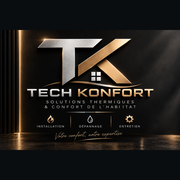
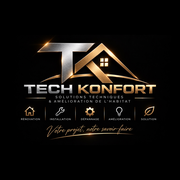
Add files via upload

diff --git a/app.js b/app.js
@@ -2,7 +2,7 @@ const $=id=>document.getElementById(id);const fmt=n=>(Number(n)||0).toLocaleStri
 let clients=load('tk_clients_v2'),quotes=load('tk_quotes_v2'),tasks=load('tk_tasks_v2',['Compléter les informations de l’entreprise','Ajouter le premier client']);let selectedClient=null,editingClient=null,editingQuote=null;
 const titles={dashboard:['Bonjour 👋','Voici un aperçu de votre activité.'],clients:['Clients','Gérez votre base clients.'],devis:['Devis','Créez et suivez vos devis.'],factures:['Factures','Facturation et règlements.'],chantiers:['Chantiers','Suivi de vos travaux.'],paiements:['Paiements','Acomptes et encaissements.'],depenses:['Dépenses','Achats et frais professionnels.'],catalogue:['Catalogue','Prestations et tarifs.'],documents:['Documents','Vos documents TECH KONFORT.'],stats:['Statistiques','Suivez votre activité.'],parametres:['Paramètres','Configurez TECH KONFORT Gestion.']};
 function toast(t){$('toast').textContent=t;$('toast').classList.add('show');setTimeout(()=>$('toast').classList.remove('show'),1800)}function go(id){document.querySelectorAll('.page').forEach(x=>x.classList.remove('active-page'));$(id).classList.add('active-page');document.querySelectorAll('.nav').forEach(x=>x.classList.toggle('active',x.dataset.page===id));$('pageTitle').textContent=titles[id][0];$('pageSub').textContent=titles[id][1];$('sidebar').classList.remove('open');renderAll()}
-document.querySelectorAll('[data-page]').forEach(b=>b.onclick=()=>go(b.dataset.page));document.querySelectorAll('[data-go]').forEach(b=>b.onclick=()=>go(b.dataset.go));$('mobileMenu').onclick=()=>$('sidebar').classList.toggle('open');$('today').textContent=new Intl.DateTimeFormat('fr-FR',{weekday:'short',day:'2-digit',month:'short'}).format(new Date());
+document.querySelectorAll('[data-page]').forEach(b=>b.onclick=()=>go(b.dataset.page));document.querySelectorAll('[data-go]').forEach(b=>b.onclick=()=>go(b.dataset.go));(()=>{const btn=$('mobileMenu'),side=$('sidebar'),back=$('menuBackdrop');function setMenu(open){side.classList.toggle('open',open);back.classList.toggle('open',open);btn.setAttribute('aria-expanded',String(open));btn.textContent=open?'×':'☰'}btn.addEventListener('click',(e)=>{e.preventDefault();e.stopPropagation();setMenu(!side.classList.contains('open'))});back.addEventListener('click',()=>setMenu(false));side.querySelectorAll('.nav').forEach(n=>n.addEventListener('click',()=>setMenu(false)));document.addEventListener('keydown',e=>{if(e.key==='Escape')setMenu(false)})})();$('today').textContent=new Intl.DateTimeFormat('fr-FR',{weekday:'short',day:'2-digit',month:'short'}).format(new Date());
 function clientId(){return 'CLI-'+String(clients.length+1).padStart(4,'0')}function quoteNum(){const y=new Date().getFullYear();let n=1;if(quotes.length){n=Math.max(...quotes.map(q=>+(q.num.split('-').pop())||0))+1}return `DEV-${y}-${String(n).padStart(4,'0')}`}
 function openClient(c=null){editingClient=c?.id||null;$('clientDlgTitle').textContent=c?'Modifier le client':'Nouveau client';$('cname').value=c?.name||'';$('cphone').value=c?.phone||'';$('cmail').value=c?.mail||'';$('cbill').value=c?.bill||'';$('csite').value=c?.site||'';$('cnotes').value=c?.notes||'';$('clientDialog').showModal()}document.querySelectorAll('[data-action="newClient"]').forEach(b=>b.onclick=()=>openClient());$('closeClient').onclick=$('cancelClient').onclick=()=>$('clientDialog').close();$('clientForm').onsubmit=e=>{e.preventDefault();const c={id:editingClient||clientId(),name:$('cname').value.trim(),phone:$('cphone').value.trim(),mail:$('cmail').value.trim(),bill:$('cbill').value.trim(),site:$('csite').value.trim(),notes:$('cnotes').value.trim(),created:new Date().toISOString()};if(!c.name)return;if(editingClient){const old=clients.find(x=>x.id===editingClient);c.created=old.created;clients=clients.map(x=>x.id===editingClient?c:x)}else clients.unshift(c);store('tk_clients_v2',clients);selectedClient=c.id;$('clientDialog').close();renderAll();toast(editingClient?'Client modifié':'Client enregistré')};
 function renderClients(){const q=($('clientSearch')?.value||'').toLowerCase();const arr=clients.filter(c=>[c.name,c.phone,c.mail,c.site].join(' ').toLowerCase().includes(q));$('clientCount').textContent=`${arr.length} client${arr.length>1?'s':''}`;$('clientRows').innerHTML=arr.length?arr.map(c=>`<div class="clientCard ${selectedClient===c.id?'active':''}" data-cid="${c.id}"><div class="clientTop"><b>${esc(c.name)}</b><span class="pill">${c.id}</span></div><small>${esc(c.phone||c.mail||'Aucune coordonnée')}</small><small>${esc(c.site||'Adresse chantier non renseignée')}</small></div>`).join(''):`<div class="empty"><div>♙</div><b>Aucun client</b><p>Ajoutez votre premier client.</p></div>`;document.querySelectorAll('[data-cid]').forEach(x=>x.onclick=()=>{selectedClient=x.dataset.cid;renderClients();renderClientDetail()});renderClientDetail();$('qclient').innerHTML='<option value="">Choisir un client</option>'+clients.map(c=>`<option value="${c.id}">${esc(c.name)}</option>`).join('')}

diff --git a/style.css b/style.css
@@ -4,3 +4,20 @@
 /* V2 functional modules */
 .dataTable{width:100%;border-collapse:collapse}.dataTable th,.dataTable td{padding:14px 12px;border-bottom:1px solid #242a2d;text-align:left}.dataTable th{font-size:11px;color:#9ca4a8;text-transform:uppercase;letter-spacing:.08em}.dataTable tr:hover td{background:#121719}.status{display:inline-flex;padding:5px 9px;border:1px solid #4d4230;border-radius:99px;color:#d7b56d;font-size:11px}.actions{display:flex;gap:8px;flex-wrap:wrap}.mini{padding:7px 10px!important;font-size:11px!important}.moduleGrid{display:grid;grid-template-columns:repeat(3,1fr);gap:14px;margin-bottom:18px}.moduleGrid article{background:#111517;border:1px solid #262d30;border-radius:14px;padding:18px}.moduleGrid strong{display:block;font-size:24px;margin-top:8px}.stack{display:grid;gap:14px}.formrow{display:grid;grid-template-columns:repeat(4,1fr);gap:12px}.formrow label,.stack label{font-size:12px;color:#a9b0b4}.formrow input,.formrow select,.stack input,.stack select,.stack textarea{margin-top:6px;width:100%}.logoImg{width:58px;height:58px;object-fit:cover;border-radius:10px}.docPreview{background:#fff;color:#111;padding:28px;border-radius:12px;max-width:850px;margin:auto}.docPreview h1{color:#111}.docPreview table{width:100%;border-collapse:collapse}.docPreview td,.docPreview th{padding:8px;border-bottom:1px solid #ddd}.danger{border-color:#6c3434!important;color:#ef9b9b!important}.emptyModule{padding:50px;text-align:center;color:#8f989d}.bigNumber{font-size:30px;font-weight:800}.settingsActions{display:flex;gap:10px;flex-wrap:wrap;margin-top:16px}@media(max-width:850px){.moduleGrid{grid-template-columns:1fr 1fr}.formrow{grid-template-columns:1fr 1fr}.dataWrap{overflow:auto}.dataTable{min-width:700px}.logoImg{width:44px;height:44px}}@media(max-width:520px){.moduleGrid{grid-template-columns:1fr}.formrow{grid-template-columns:1fr}.pagebar{align-items:flex-start;gap:12px}.pagebar .primary{width:100%}}
 @media print{body *{visibility:hidden}.printable,.printable *{visibility:visible}.printable{position:absolute;left:0;top:0;width:100%;background:white;color:black}.sidebar,header,.mobileMenu{display:none!important}}
+
+/* V1.2 — logo officiel + menu mobile fiabilisé */
+.mobileBrand,.menuBackdrop{display:none}
+@media(max-width:900px){
+  .mobileBrand{display:block;position:fixed;top:calc(env(safe-area-inset-top) + 8px);left:72px;z-index:45;width:118px;height:54px;overflow:hidden;border-radius:8px;background:#050505;border:1px solid #4a3a20}
+  .mobileBrand img{width:100%;height:100%;object-fit:contain;display:block}
+  .mobileMenu{top:calc(env(safe-area-inset-top) + 13px);left:13px;z-index:60;cursor:pointer;touch-action:manipulation;-webkit-tap-highlight-color:transparent}
+  header{padding-top:calc(env(safe-area-inset-top) + 12px);padding-left:205px;min-height:78px}
+  header h1{font-size:17px}
+  header p{font-size:11px}
+  .sidebar{z-index:70;padding-top:calc(env(safe-area-inset-top) + 20px);box-shadow:20px 0 60px #0000}
+  .sidebar.open{box-shadow:20px 0 60px #000b}
+  .menuBackdrop{position:fixed;inset:0;z-index:65;background:#0009;backdrop-filter:blur(2px)}
+  .menuBackdrop.open{display:block}
+  .sidebar .logoImg{width:90px;height:58px;object-fit:contain;background:#050505}
+}
+@media(max-width:430px){.mobileBrand{width:105px}.mobileBrand+ .mobileMenu{} header{padding-left:190px} header p{display:none}}

diff --git a/index.html b/index.html
@@ -1,6 +1,6 @@
 <!doctype html><html lang="fr"><head><meta charset="utf-8"><meta name="viewport" content="width=device-width,initial-scale=1,viewport-fit=cover"><meta name="theme-color" content="#0a0d0f"><title>TECH KONFORT Gestion V1.1</title><link rel="manifest" href="manifest.webmanifest"><link rel="apple-touch-icon" href="icon-180.png"><meta name="apple-mobile-web-app-capable" content="yes"><meta name="apple-mobile-web-app-status-bar-style" content="black-translucent"><meta name="apple-mobile-web-app-title" content="TECH KONFORT"><link rel="stylesheet" href="style.css"></head><body>
-<button class="mobileMenu" id="mobileMenu">☰</button>
-<aside class="sidebar" id="sidebar"><div class="brand"><img class="logoImg" src="logo.png" alt="TK"><div><b>TECH KONFORT</b><span>GESTION V1.1</span></div></div><nav>
+<div class="mobileBrand"><img src="logo-officiel.jpg" alt="TECH KONFORT"></div><button class="mobileMenu" id="mobileMenu" type="button" aria-label="Ouvrir le menu" aria-expanded="false">☰</button><div class="menuBackdrop" id="menuBackdrop"></div>
+<aside class="sidebar" id="sidebar"><div class="brand"><img class="logoImg" src="logo-officiel.jpg" alt="TECH KONFORT"><div><b>TECH KONFORT</b><span>GESTION V1.1</span></div></div><nav>
 <button class="nav active" data-page="dashboard">⌂ <span>Accueil</span></button><button class="nav" data-page="devis">▤ <span>Devis</span></button><button class="nav" data-page="factures">▧ <span>Factures</span></button><button class="nav" data-page="clients">♙ <span>Clients</span></button><button class="nav" data-page="chantiers">⌂ <span>Chantiers</span></button><button class="nav" data-page="paiements">€ <span>Paiements</span></button><button class="nav" data-page="depenses">↗ <span>Dépenses</span></button><button class="nav" data-page="catalogue">▦ <span>Catalogue</span></button><button class="nav" data-page="documents">□ <span>Documents</span></button><button class="nav" data-page="stats">▥ <span>Statistiques</span></button></nav><div class="sidebottom"><button class="nav" data-page="parametres">⚙ <span>Paramètres</span></button><div class="user"><div class="avatar">TK</div><div><b>TECH KONFORT</b><small>Administrateur</small></div></div></div></aside>
 <main><header><div><h1 id="pageTitle">Bonjour 👋</h1><p id="pageSub">Voici un aperçu de votre activité.</p></div><div class="header-actions"><div class="search">⌕ <input id="globalSearch" placeholder="Rechercher un client, un devis…"></div><div class="date" id="today"></div></div></header>
 <section id="dashboard" class="page active-page"><div class="hero"><div class="hero-copy"><span class="eyebrow">TECH KONFORT</span><h2>Votre projet,<br><em>notre savoir-faire.</em></h2><p>Solutions techniques & amélioration de l'habitat.</p><div><button class="primary" data-action="newQuote">＋ Nouveau devis</button><button class="secondary" data-action="newClient">＋ Nouveau client</button></div></div><div class="hero-art"><div class="tkLogo">T<span>K</span></div><small>RÉNOVATION · INSTALLATION · DÉPANNAGE</small></div></div>

diff --git a/sw.js b/sw.js
@@ -1,1 +1,1 @@
-const CACHE='tech-konfort-v1';const ASSETS=['./','./index.html','./style.css','./app.js','./logo.png','./icon-192.png','./icon-512.png'];self.addEventListener('install',e=>e.waitUntil(caches.open(CACHE).then(c=>c.addAll(ASSETS))));self.addEventListener('activate',e=>e.waitUntil(caches.keys().then(keys=>Promise.all(keys.filter(k=>k!==CACHE).map(k=>caches.delete(k))))));self.addEventListener('fetch',e=>{if(e.request.method!=='GET')return;e.respondWith(fetch(e.request).then(r=>{const copy=r.clone();caches.open(CACHE).then(c=>c.put(e.request,copy));return r;}).catch(()=>caches.match(e.request).then(r=>r||caches.match('./index.html'))));});
+const CACHE='tech-konfort-v1-2';const ASSETS=['./','./index.html','./style.css','./app.js','./logo.png','./logo-officiel.jpg','./icon-192.png','./icon-512.png'];self.addEventListener('install',e=>e.waitUntil(caches.open(CACHE).then(c=>c.addAll(ASSETS))));self.addEventListener('activate',e=>e.waitUntil(caches.keys().then(keys=>Promise.all(keys.filter(k=>k!==CACHE).map(k=>caches.delete(k))))));self.addEventListener('fetch',e=>{if(e.request.method!=='GET')return;e.respondWith(fetch(e.request).then(r=>{const copy=r.clone();caches.open(CACHE).then(c=>c.put(e.request,copy));return r;}).catch(()=>caches.match(e.request).then(r=>r||caches.match('./index.html'))));});
